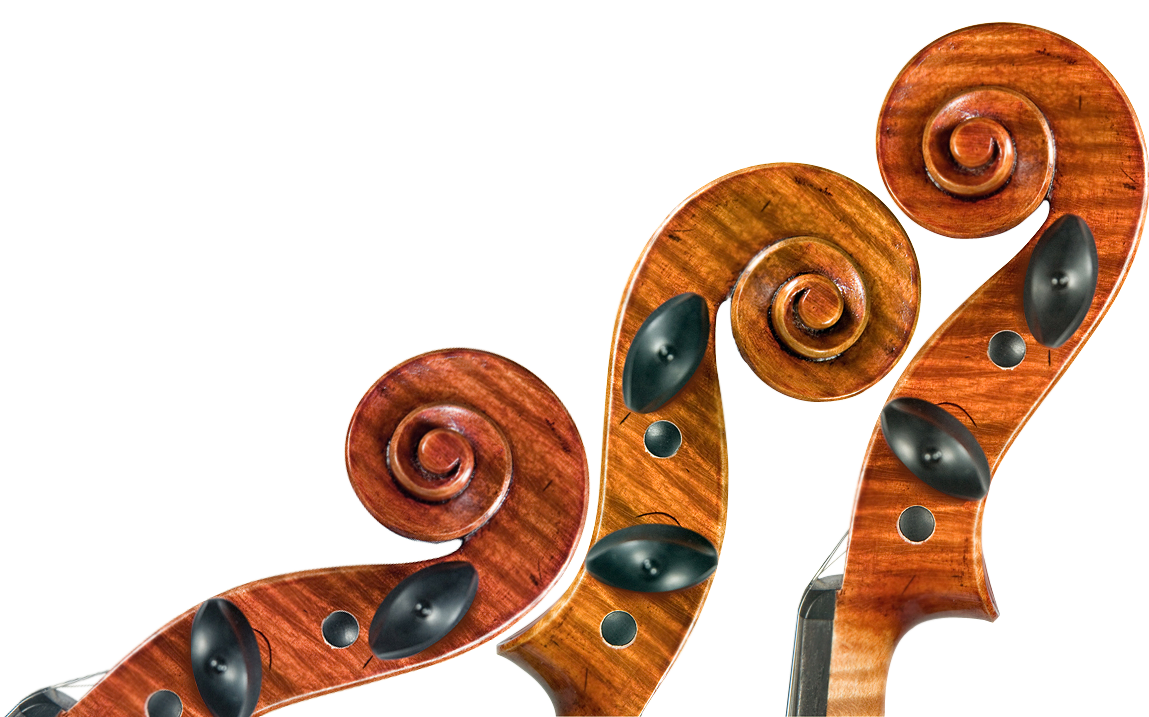
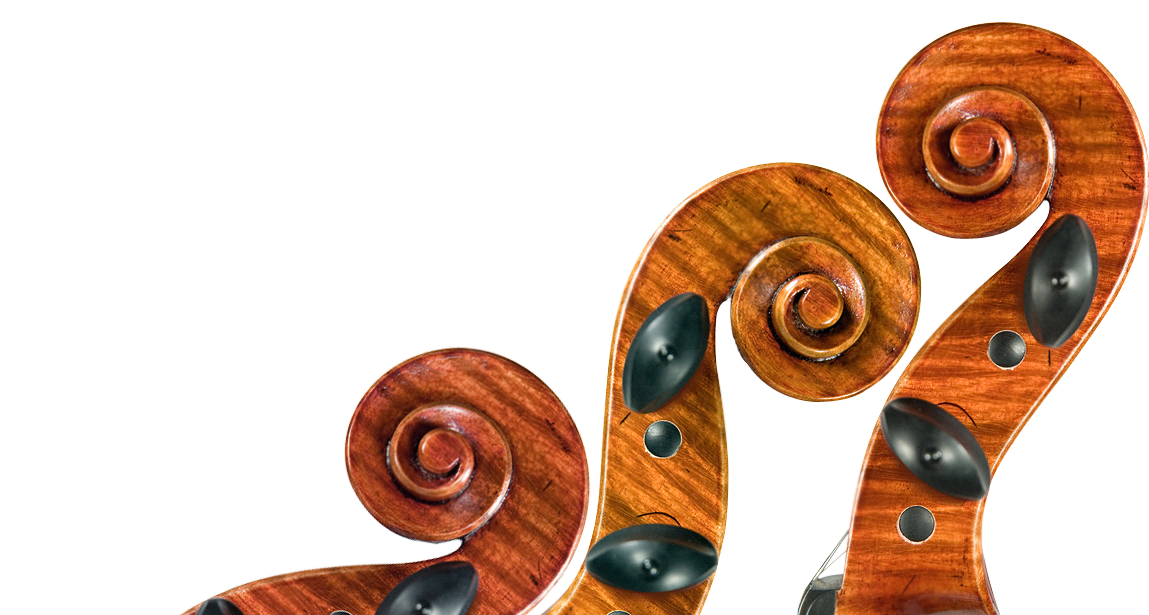
appa website new pages

diff --git a/mani/about.html b/mani/about.html
@@ -452,8 +452,8 @@
     width: 100%;
   }
   .border img {
-    width: 100%;
-    max-width: 1100px;
+    width: 50%;
+    max-width: 500px;
     position: absolute;
     bottom: 0;
     right: 0;
@@ -483,7 +483,7 @@
         </div>
         <div class="navbar-collapse collapse navbar-right" id = "nav-menu">
           <!-- <form class="navbar-form navbar-right" role="form"> -->
-            <a href="#portfolio">Home</a>
+            <a href="index.html">Home</a>
             <a href="about.html">About</a>
             <a href="class.html">Classes</a>
             <a href="media.html">Photos/Videos</a>
@@ -496,15 +496,24 @@
     <div class="jumbotron">
       <div class="container">
         <div class="row">
-        <div class="col-md-4">
-          <h1>G.Manikantan</h1>
-          <p style="font-size:20px;">Carnatic Violinist</p>
+        <div class="col-md-12">
+          <h1>About G.Manikantan</h1>
         </div>
         </div>
         <div class="row">
-        <div class="col-lg-7 col-md-7">
+        <div class="col-lg-12 col-md-12">
           <!--<p><a class="btn btn-primary btn-lg" role="button" href="#portfolio">View my work</a></p>-->
-          <p>G.Manikantan is a violin artise currently residing in Singapore. With over 40 years of experience, Manikantan has numerous performances under his belt. For concert booking or classes, please contact at <a href="mailto:violinmanikantan@gmail.com">violinmanikantan@gmail.com</a></p>
+          <p>G.Manikantan hails from a family of renowned violinists. He had his 'Gurukulam' under Sri Amritha Bharathiyar and furthered his tutelage under stalwarts like Ramanathapuram Sri M.N. Ganesa Pillai and Karaikudi Sri M.S.Mani
+
+          <br><br>As a soloist, Manikantan has gained critical acclaim for his performances across the world, including countries such as India, Malaysia, Australia, South Africa,Mauritius, Indoneisa and Russia. 
+          <br><br>A renowned artist from the All India Radio,Manikanta has accompanied violin for many Musical legends concerts, many Dance and Music Productions, He has also performed with the NUS fusion Orchestra, the Chinese Orchestra  in Singapore and overseas.
+
+          <br><br>His skill as a violinist aside, Manikantan is a talented composer. He has composed Varnam, Jathiswaram, Thillana and Padam  for dance performances, and several Ragamallika pieces for the Singapore Youth Festival.
+
+          <br><br>He is a conductor of Indian Orchestra in Raffles Girls’ Secondary School, and 
+          violin teacher  at Temple of Fine Arts Singapore.
+
+          <br><br>In recognition for his immense artistry, he was conferred the title " Isai Gnana Jothi " in India "Sangeetha Kala Nipuna " by Nrityalaya Aesthetic Society, Singapore, and "SANGEETHA SAMRAJ" by Sapthaswara Sangeethalaya Malaysia.</p>
         </div>
         </div>
 
@@ -513,7 +522,7 @@
     </div>
 
     <div class="border">
-      <img src="border.png" />
+        <img src="about.png" />
     </div>
     
 

diff --git a/mani/media.html b/mani/media.html
@@ -452,8 +452,8 @@
     width: 100%;
   }
   .border img {
-    width: 100%;
-    max-width: 1100px;
+    width: 50%;
+    max-width: 500px;
     position: absolute;
     bottom: 0;
     right: 0;
@@ -483,7 +483,7 @@
         </div>
         <div class="navbar-collapse collapse navbar-right" id = "nav-menu">
           <!-- <form class="navbar-form navbar-right" role="form"> -->
-            <a href="#portfolio">Home</a>
+            <a href="index.html">Home</a>
             <a href="about.html">About</a>
             <a href="class.html">Classes</a>
             <a href="media.html">Photos/Videos</a>
@@ -496,15 +496,13 @@
     <div class="jumbotron">
       <div class="container">
         <div class="row">
-        <div class="col-md-4">
-          <h1>G.Manikantan</h1>
-          <p style="font-size:20px;">Carnatic Violinist</p>
+        <div class="col-md-12">
+          <h1>Photos and Videos</h1>
         </div>
         </div>
         <div class="row">
-        <div class="col-lg-7 col-md-7">
-          <!--<p><a class="btn btn-primary btn-lg" role="button" href="#portfolio">View my work</a></p>-->
-          <p>G.Manikantan is a violin artise currently residing in Singapore. With over 40 years of experience, Manikantan has numerous performances under his belt. For concert booking or classes, please contact at <a href="mailto:violinmanikantan@gmail.com">violinmanikantan@gmail.com</a></p>
+        <div class="col-lg-12 col-md-12">
+          
         </div>
         </div>
 
@@ -512,9 +510,6 @@
       </div>
     </div>
 
-    <div class="border">
-      <img src="border.png" />
-    </div>
     
 
 
